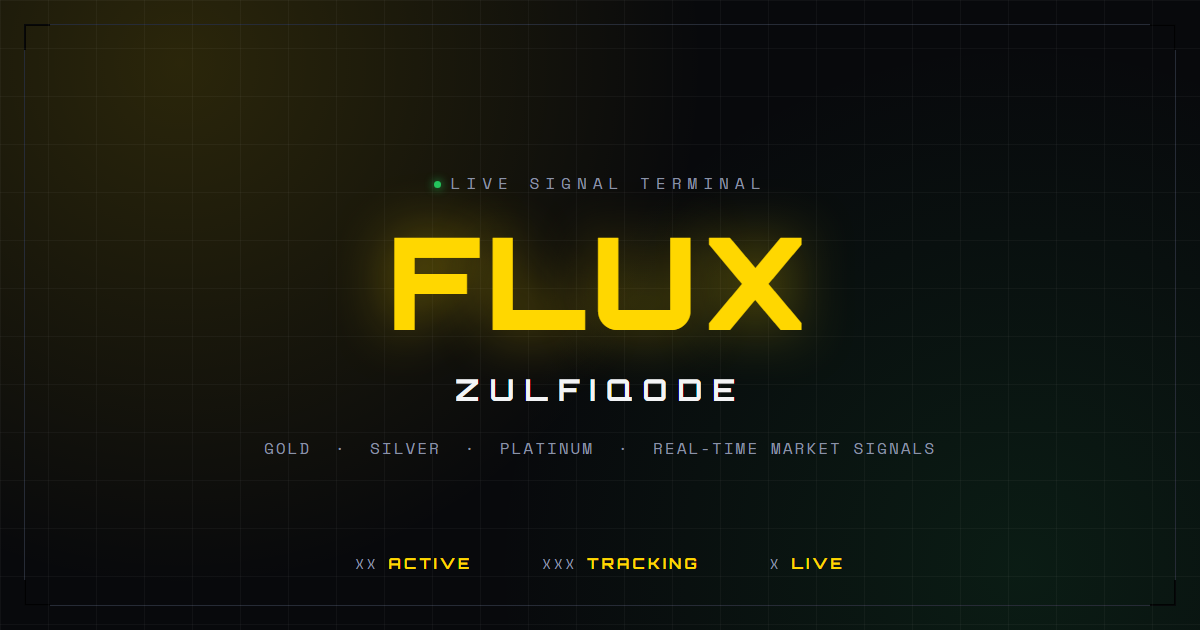
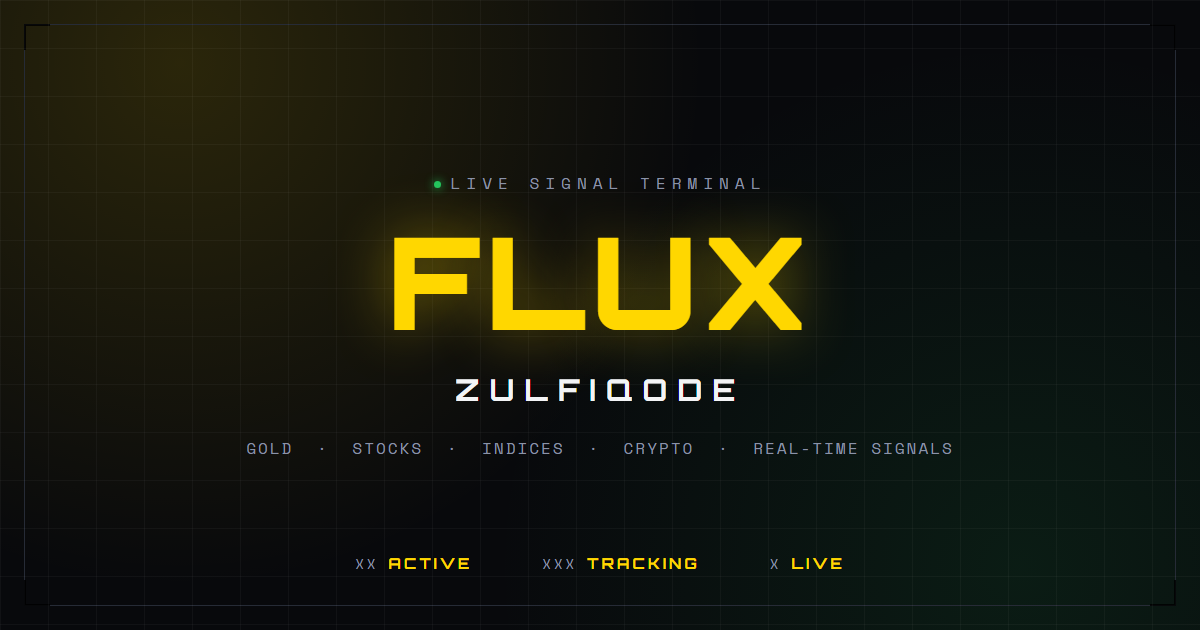
Correct thumbnail/meta copy to reflect all tracked assets
Previous copy said gold/silver/platinum, but FLUX actually tracks
gold, S&P 500, Bitcoin, Microsoft, and Tesla — spanning commodities,
indices, crypto, and equities.

Changed region(s): [[0.5242, 0.6937, 0.8017, 0.7238], [0.185, 0.6937, 0.37, 0.7238], [0.4008, 0.6937, 0.4933, 0.7238]]

diff --git a/index.html b/index.html
@@ -5,12 +5,12 @@
     <meta name="viewport" content="width=device-width, initial-scale=1.0">
     <title>ZulfiQode - FLUX | Signal Terminal</title>
 
-    <meta name="description" content="FLUX by ZulfiQode — a live signal terminal tracking gold, silver, and platinum with real-time market signals.">
+    <meta name="description" content="FLUX by ZulfiQode — a live signal terminal tracking gold, stocks, indices, and crypto with real-time market signals.">
 
     <meta property="og:type" content="website">
     <meta property="og:url" content="https://flux-gold-tracker.vercel.app/">
     <meta property="og:title" content="ZulfiQode - FLUX | Signal Terminal">
-    <meta property="og:description" content="A live signal terminal tracking gold, silver, and platinum with real-time market signals.">
+    <meta property="og:description" content="A live signal terminal tracking gold, stocks, indices, and crypto with real-time market signals.">
     <meta property="og:image" content="https://flux-gold-tracker.vercel.app/og-image.png">
     <meta property="og:image:width" content="1200">
     <meta property="og:image:height" content="630">
@@ -18,7 +18,7 @@
     <meta name="twitter:card" content="summary_large_image">
     <meta name="twitter:url" content="https://flux-gold-tracker.vercel.app/">
     <meta name="twitter:title" content="ZulfiQode - FLUX | Signal Terminal">
-    <meta name="twitter:description" content="A live signal terminal tracking gold, silver, and platinum with real-time market signals.">
+    <meta name="twitter:description" content="A live signal terminal tracking gold, stocks, indices, and crypto with real-time market signals.">
     <meta name="twitter:image" content="https://flux-gold-tracker.vercel.app/og-image.png">
 
     <link href="https://fonts.googleapis.com/css2?family=Orbitron:wght@400;700;900&family=Space+Mono:wght@400;700&display=swap" rel="stylesheet">
